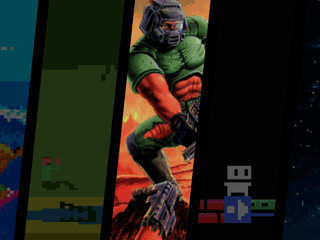
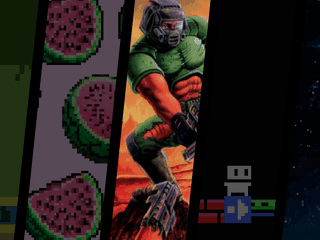
Theme artbook_v03: Meloni Games tab with watermelon artwork
- tools/custom/: own systems that Art Book Next doesn't have (artwork cut to
  the strip shape, logo); meloni_logo.png is a text placeholder for now
- artbook_v03 rebuilt with the meloni tab between a26 and doom; only the
  meloni files and the four neighbouring backgrounds changed

diff --git a/retro-go/themes/tools/build_theme.py b/retro-go/themes/tools/build_theme.py
@@ -9,6 +9,9 @@ from PIL import Image, ImageChops, ImageFilter
 HERE = os.path.dirname(os.path.abspath(__file__))
 ART = os.path.join(HERE, "abn/_inc/systems/artwork-default")
 LOGOS = os.path.join(HERE, "logos_png")
+# Own systems that Art Book Next doesn't have: custom/<name>_art.png (any picture, cut to the
+# strip shape) and custom/<name>_logo.png (only the alpha channel is used, like the logos)
+CUSTOM = os.path.join(HERE, "custom")
 OUT = os.path.join(HERE, "..", "artbook")
 MOCK = os.path.join(HERE, "mock")
 W, H = 320, 240
@@ -71,9 +74,31 @@ THEME = {
 }
 
 
+def custom_art(path):
+    """A picture cut to the Art Book strip: scaled to cover 454x1080, centred, and given the
+    slanted shape of the Art Book artwork (alpha of _default.png)."""
+    shape = Image.open(os.path.join(ART, "_default.png")).getchannel("A")
+    src = Image.open(path).convert("RGB")
+    scale = max(shape.width / src.width, shape.height / src.height)
+    src = src.resize((round(src.width * scale), round(src.height * scale)), Image.LANCZOS)
+    left, top = (src.width - shape.width) // 2, (src.height - shape.height) // 2
+    im = src.crop((left, top, left + shape.width, top + shape.height)).convert("RGBA")
+    im.putalpha(shape)
+    return im
+
+
 def strip(name):
-    im = Image.open(os.path.join(ART, name + ".png")).convert("RGBA")
+    custom = os.path.join(CUSTOM, name + "_art.png")
+    if os.path.exists(custom):
+        im = custom_art(custom)
+    else:
+        im = Image.open(os.path.join(ART, name + ".png")).convert("RGBA")
     return im.resize((STRIP_W, STRIP_H), Image.LANCZOS)
+
+
+def logo_path(name):
+    custom = os.path.join(CUSTOM, name + "_logo.png")
+    return custom if os.path.exists(custom) else os.path.join(LOGOS, name + ".png")
 
 
 def background(seq):
@@ -91,7 +116,7 @@ def background(seq):
 def logo_banner(name, max_w=190, max_h=22):
     """White logo with 1px black outline on magenta (Retro-Go transparency), 272x24,
     horizontally centred on screen (banner is drawn at x=47)."""
-    src = Image.open(os.path.join(LOGOS, name + ".png")).convert("RGBA")
+    src = Image.open(logo_path(name)).convert("RGBA")
     src = src.crop(src.getchannel("A").getbbox())
     scale = min(max_w / src.width, max_h / src.height)
     size = (max(1, round(src.width * scale)), max(1, round(src.height * scale)))

diff --git a/retro-go/themes/tools/build_theme_v03.py b/retro-go/themes/tools/build_theme_v03.py
@@ -21,7 +21,7 @@ TABS = [
     ("nes", "nes"), ("snes", "snes"), ("gb", "gb"), ("gbc", "gbc"), ("gba", "gba"),
     ("gw", "gameandwatch"), ("sms", "mastersystem"), ("gg", "gamegear"),
     ("md", "megadrive"), ("col", "colecovision"), ("pce", "pcengine"),
-    ("lnx", "atarilynx"), ("a26", "atari2600"), ("doom", "doom"), ("msx", "msx"),
+    ("lnx", "atarilynx"), ("a26", "atari2600"), ("meloni", "meloni"), ("doom", "doom"), ("msx", "msx"),
     ("favorite", "auto-favorites"), ("recent", "auto-lastplayed"),
 ]
 EXTRA = base.EXTRA
@@ -50,7 +50,7 @@ def background(seq):
 def carousel(name):
     """Large logo for the carousel view: anti-aliased white on black, 2px black outline,
     magenta (Retro-Go transparency) around it. Cropped to the logo."""
-    src = Image.open(os.path.join(base.LOGOS, name + ".png")).convert("RGBA")
+    src = Image.open(base.logo_path(name)).convert("RGBA")
     src = src.crop(src.getchannel("A").getbbox())
     mw, mh = CAROUSEL_MAX
     scale = min(mw / src.width, mh / src.height)
@@ -125,10 +125,13 @@ Die meisten Systemlogos basieren auf den Neuzeichnungen von Dan Patrick
 Idee der Multi-Artwork-Systemansicht: GenoCL.
 Die Bilder wurden fuer Retro-Go verkleinert, zusammengesetzt und umgefaerbt.
 Dieses Theme steht unter derselben Lizenz (CC BY-NC-SA 2.0), nicht kommerziell.
+
+Meloni Games (Tab `meloni`): Bild und Logo sind eigene, nicht aus Art Book Next
+(`tools/custom/meloni_art.png`, `tools/custom/meloni_logo.png`).
 """
 
 if __name__ == "__main__":
     main()
     # mocks
-    for tab in ["nes", "lnx", "a26", "doom"]:
+    for tab in ["nes", "lnx", "a26", "meloni", "doom"]:
         carousel_view(tab).resize((640, 480), Image.NEAREST).save(os.path.join(MOCK, f"v03_{tab}.png"))

diff --git a/retro-go/themes/tools/README.md b/retro-go/themes/tools/README.md
@@ -44,4 +44,12 @@ Vorschauen der Launcher-Ansicht landen in `mock/`.
 3. Skript ausführen. Der Tab-Name ist das Kürzel aus `launcher/main/applications.c`
    (z. B. `a26`), der Art-Book-Name der Dateiname in `abn/_inc/systems/`.
 
+### Eigene Systeme (nicht in Art Book Next)
+
+Bild und Logo liegen in `custom/`: `<name>_art.png` (beliebiges Bild, wird auf die schräge
+Streifenform zugeschnitten) und `<name>_logo.png` (nur der Alphakanal zählt, wie bei den
+anderen Logos). Dann wie oben den Namen in `TABS` eintragen. So ist `meloni` (Meloni Games)
+eingebunden; `meloni_logo.png` ist bis zum richtigen Logo nur der Schriftzug „Meloni“.
+Logo tauschen: Datei ersetzen, `python build_theme_v03.py` ausführen.
+
 `abn/`, `logos_png/`, `mock/` und `.venv/` sind nur Arbeitsdateien und nicht im Repo.

diff --git a/retro-go/themes/artbook_v03/README.md b/retro-go/themes/artbook_v03/README.md
@@ -18,3 +18,6 @@ Die meisten Systemlogos basieren auf den Neuzeichnungen von Dan Patrick
 Idee der Multi-Artwork-Systemansicht: GenoCL.
 Die Bilder wurden fuer Retro-Go verkleinert, zusammengesetzt und umgefaerbt.
 Dieses Theme steht unter derselben Lizenz (CC BY-NC-SA 2.0), nicht kommerziell.
+
+Meloni Games (Tab `meloni`): Bild und Logo sind eigene, nicht aus Art Book Next
+(`tools/custom/meloni_art.png`, `tools/custom/meloni_logo.png`).
